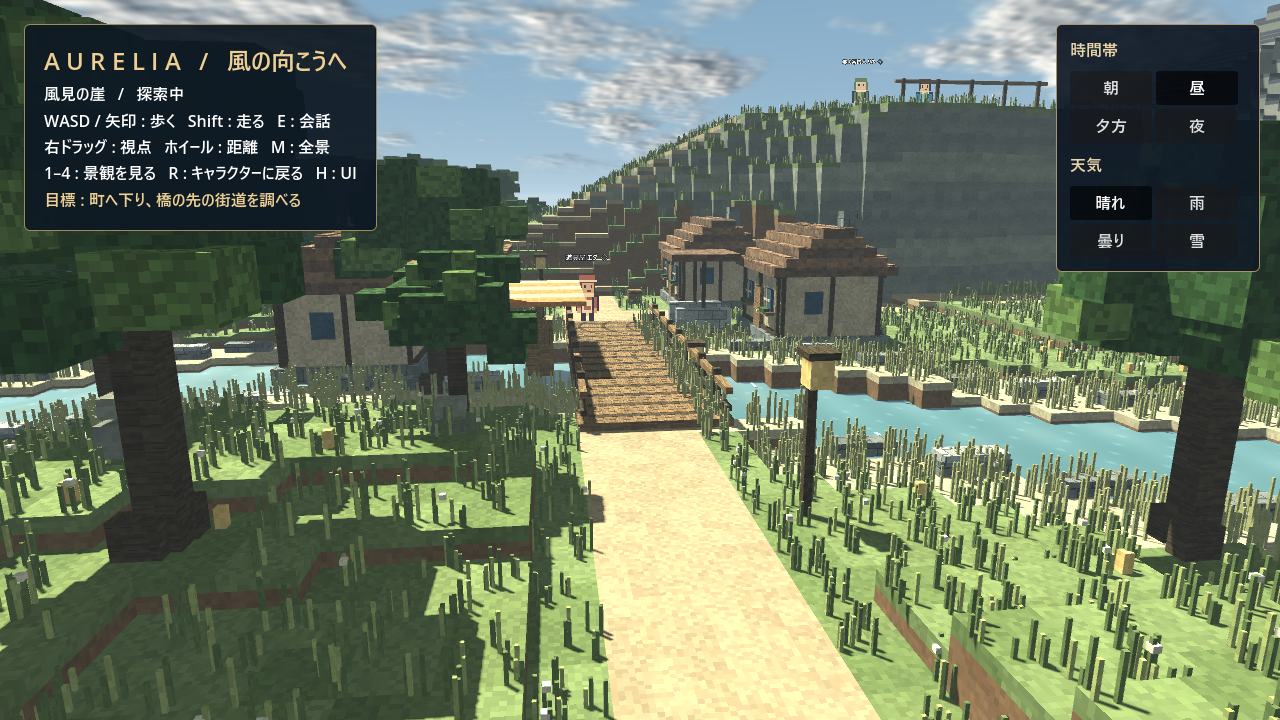
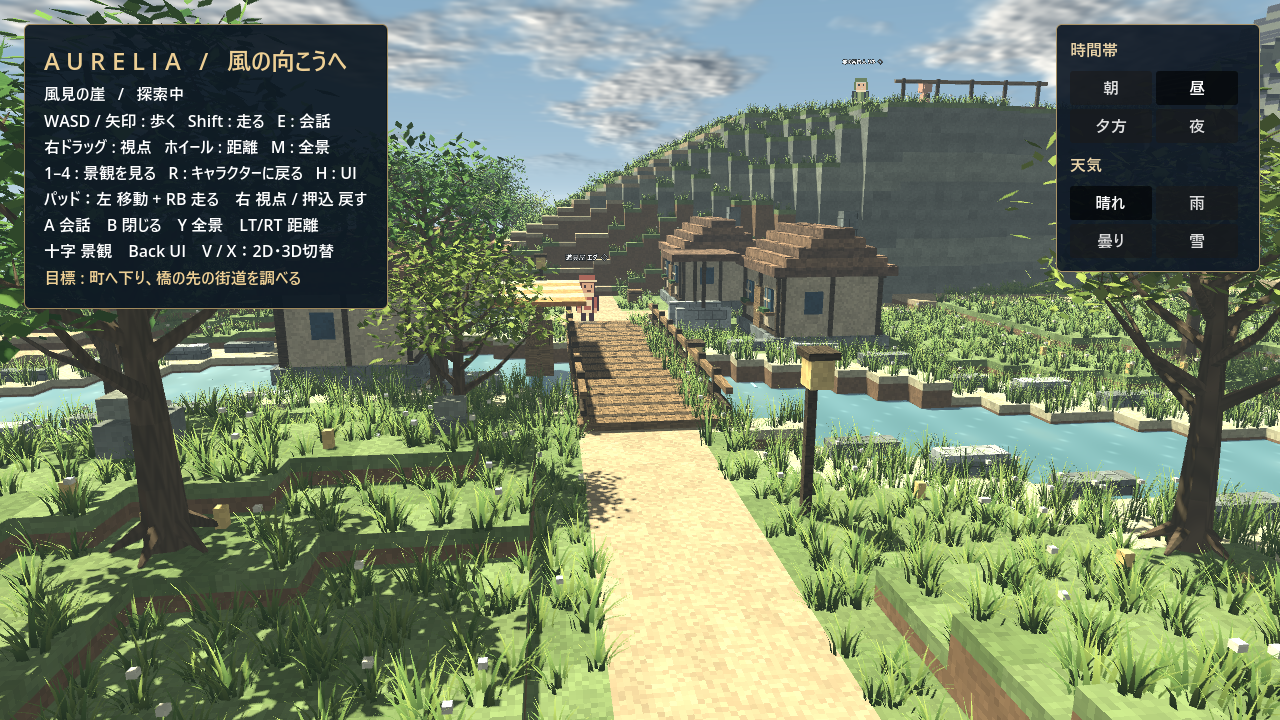
[mod] new base model

diff --git a/docs/dev/jrpg-vegetation.md b/docs/dev/jrpg-vegetation.md
@@ -1,0 +1,40 @@
+# JRPGWorldSample の自然な木・草
+
+`samples/JRPGWorldSample.tscn` を実行すると新しい植生を生成する。
+`4` キーの橋視点で、広葉樹と川沿いの草をまとめて確認できる。
+北側の森には針葉樹を配置している。地形・建物は従来のボクセル表現。
+
+![橋周辺の広葉樹と草](../../assets/world_jrpg/preview_vegetation_bridge.png)
+
+![北側の針葉樹](../../assets/world_jrpg/preview_vegetation_pine.png)
+
+## 植生の構成
+
+- 広葉樹：先細りの幹、根張り、分岐する枝、折り目のある小さな葉。緑色・黄緑色を含む3バリエーション。
+- 針葉樹：高さや長さの異なる枝、立体的に広がる青緑色の葉。3バリエーション。
+- 草：根元から先端へ細くなる、曲がった葉の株。通常の草と水辺の背の高い草を各3バリエーション。
+- 葉と草は風で揺れ、雨で濡れ色になり、雪が上面に乗る。戦闘中の樹冠の非表示・終了後の復帰にも対応。
+
+外部画像やモデルへの依存はなく、3Dメッシュをシードから生成する。木の配置・サイズと幹の衝突判定は従来の配置処理を使う。
+メッシュ・材質を共有し、バリエーションとチャンクごとにMultiMeshへまとめる。草の描画距離は85m、草自体の影は無効。
+
+## 調整箇所
+
+- `scripts/world_jrpg/natural_vegetation.gd`：`_tree()` の樹高・枝・葉・配色、`_grass()` の草丈・幅・株の葉数。
+- `scripts/world_jrpg/natural_vegetation.gdshader`：揺れ幅・速度、濡れ色、積雪。
+- `scripts/world_jrpg/world.gd`：従来どおり木の密度と `_build_grass()` の草の配置範囲・密度を管理。
+- `scripts/world_jrpg/voxel_prop.gd` / `voxel_batch.gd`：既存の木の配置呼び出しを新しい植生へ接続。
+
+## 確認結果
+
+Godot 4.6.1 / GL Compatibility / RTX 4050 Laptop / 1280×720で実描画を確認。
+ウォームアップ45フレーム後の90フレームは橋・広葉樹・針葉樹の視点で約1,500ms（約60fps）、全景は約3,027ms（約30fps）。
+全景は全域の木を描画するため負荷が高い。木の距離別LODは未実装。
+
+`scripts/world_jrpg/verify_sample.gd` の移動・経路・会話・戦闘チェックに加え、新しい植生への16通りの時間帯／天候の反映、戦闘中の樹冠非表示と終了後の復帰を確認。
+実行環境由来の証明書ストア・シェーダーキャッシュ保存エラーは出るが、スクリプト・シェーダーのコンパイルと画像出力は成功。
+
+```powershell
+godot --headless --path . --script scripts/world_jrpg/verify_sample.gd
+godot --path . --resolution 1280x720 res://samples/JRPGWorldSample.tscn -- --sample-capture --view=bridge --time=day --weather=clear
+```
